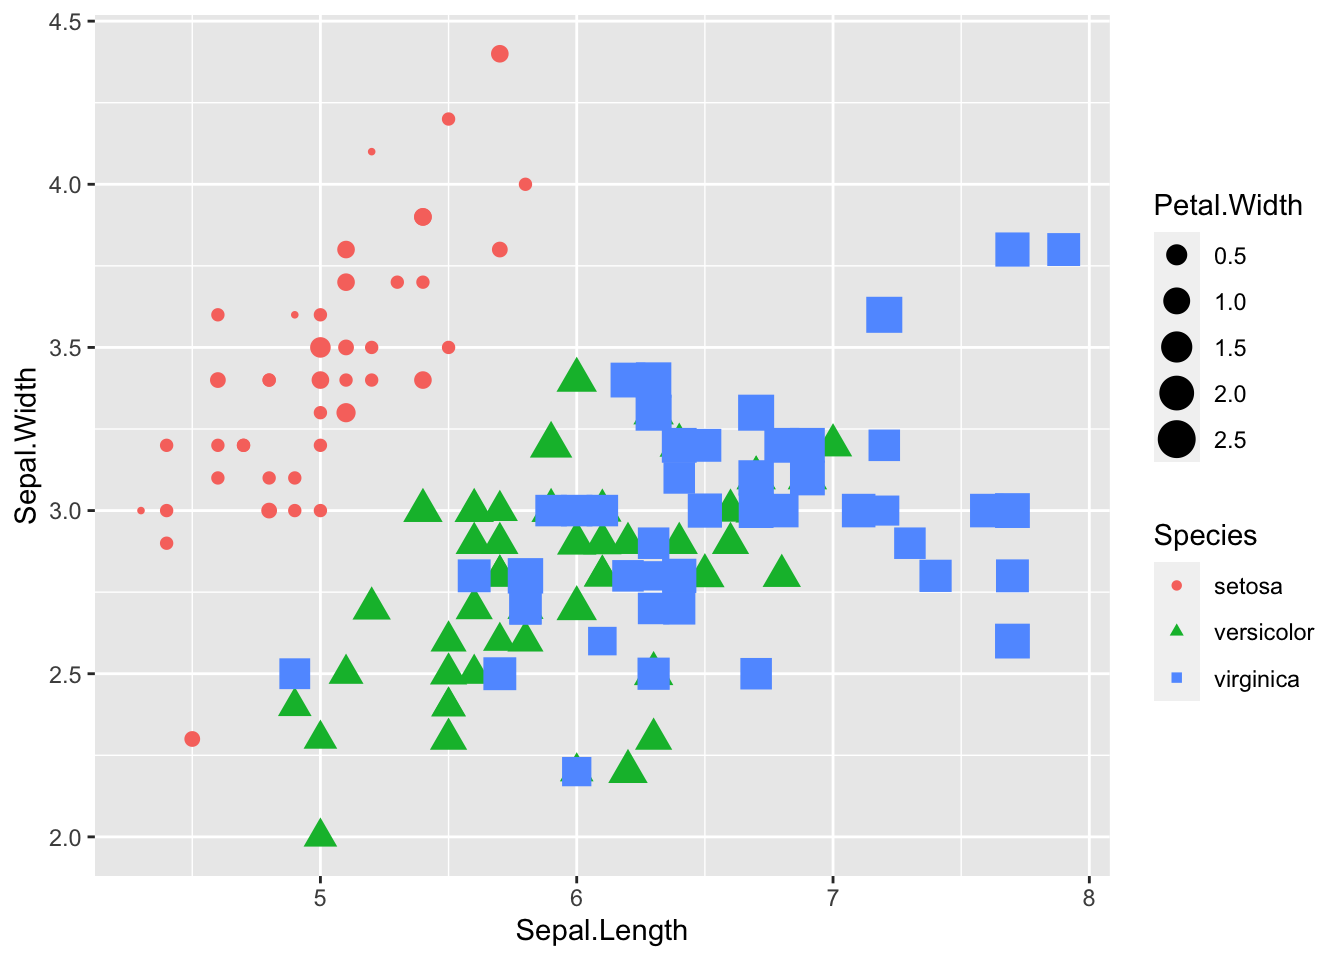
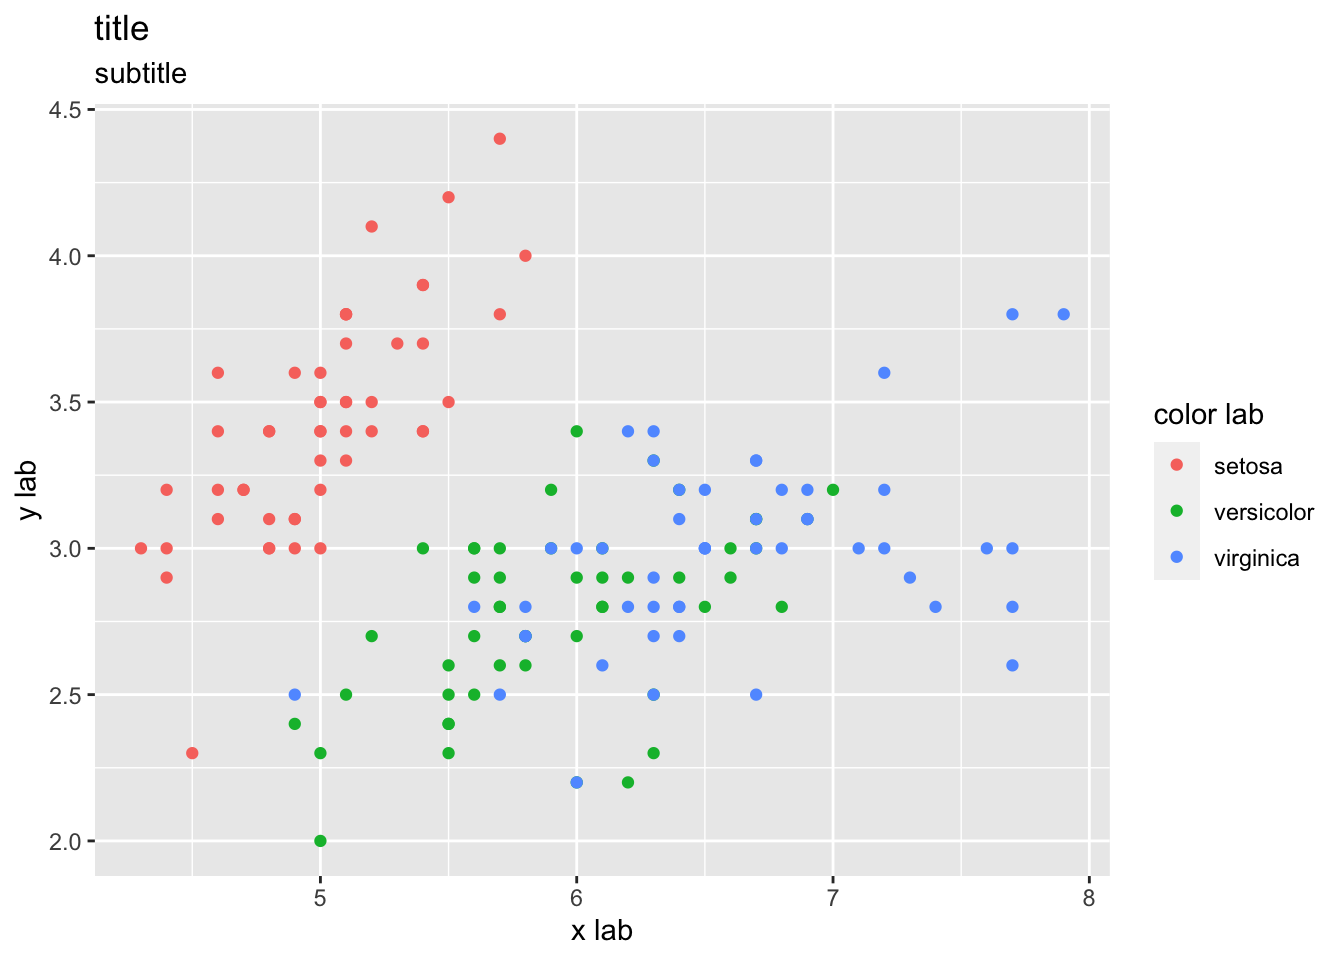
comit

diff --git a/docs/להפוך-את-הגרף-שלי-ליפהיפה.html b/docs/להפוך-את-הגרף-שלי-ליפהיפה.html
@@ -203,13 +203,40 @@ code span.wa { color: #60a0b0; font-weight: bold; font-style: italic; } /* Warni
             <section class="normal" id="section-">
 <div id="להפוך-את-הגרף-שלי-ליפהיפה" class="section level1" number="6">
 <h1><span class="header-section-number"> 6</span> להפוך את הגרף שלי ליפהיפה</h1>
+<p>ניתן לשמור אוביקט
+ggplot2
+בשם, ואז להוסיף לאוביקט השמור שכבות עיצוביות נוספת.
+זה מה שאדגים בפרק הזה. נתחיל בלשמור את הגרף שעבדנו עליו בפרקים הקודמים בשם</p>
+<div class="sourceCode" id="cb24"><pre class="sourceCode r"><code class="sourceCode r"><span id="cb24-1"><a href="להפוך-את-הגרף-שלי-ליפהיפה.html#cb24-1" aria-hidden="true" tabindex="-1"></a>my_plot <span class="ot">&lt;-</span> </span>
+<span id="cb24-2"><a href="להפוך-את-הגרף-שלי-ליפהיפה.html#cb24-2" aria-hidden="true" tabindex="-1"></a><span class="fu">ggplot</span>(iris) <span class="sc">+</span></span>
+<span id="cb24-3"><a href="להפוך-את-הגרף-שלי-ליפהיפה.html#cb24-3" aria-hidden="true" tabindex="-1"></a>  <span class="fu">aes</span>(<span class="at">x =</span> Sepal.Length, <span class="at">y =</span> Sepal.Width, <span class="at">color =</span> Species) <span class="sc">+</span></span>
+<span id="cb24-4"><a href="להפוך-את-הגרף-שלי-ליפהיפה.html#cb24-4" aria-hidden="true" tabindex="-1"></a>  <span class="fu">geom_point</span>()</span>
+<span id="cb24-5"><a href="להפוך-את-הגרף-שלי-ליפהיפה.html#cb24-5" aria-hidden="true" tabindex="-1"></a></span>
+<span id="cb24-6"><a href="להפוך-את-הגרף-שלי-ליפהיפה.html#cb24-6" aria-hidden="true" tabindex="-1"></a>my_plot</span></code></pre></div>
+<p><img src="bookdownproj_files/figure-html/unnamed-chunk-22-1.png" width="672" /></p>
 <div id="טקסט" class="section level2" number="6.1">
 <h2><span class="header-section-number">6.1</span> טקסט</h2>
-<p>בלה בלה בלה</p>
+<div class="sourceCode" id="cb25"><pre class="sourceCode r"><code class="sourceCode r"><span id="cb25-1"><a href="להפוך-את-הגרף-שלי-ליפהיפה.html#cb25-1" aria-hidden="true" tabindex="-1"></a>my_plot_2 <span class="ot">&lt;-</span> </span>
+<span id="cb25-2"><a href="להפוך-את-הגרף-שלי-ליפהיפה.html#cb25-2" aria-hidden="true" tabindex="-1"></a>my_plot <span class="sc">+</span></span>
+<span id="cb25-3"><a href="להפוך-את-הגרף-שלי-ליפהיפה.html#cb25-3" aria-hidden="true" tabindex="-1"></a>  <span class="fu">labs</span>(</span>
+<span id="cb25-4"><a href="להפוך-את-הגרף-שלי-ליפהיפה.html#cb25-4" aria-hidden="true" tabindex="-1"></a>    <span class="at">title =</span> <span class="st">&quot;title&quot;</span>,</span>
+<span id="cb25-5"><a href="להפוך-את-הגרף-שלי-ליפהיפה.html#cb25-5" aria-hidden="true" tabindex="-1"></a>    <span class="at">subtitle =</span> <span class="st">&quot;subtitle&quot;</span>,</span>
+<span id="cb25-6"><a href="להפוך-את-הגרף-שלי-ליפהיפה.html#cb25-6" aria-hidden="true" tabindex="-1"></a>    <span class="at">x =</span> <span class="st">&quot;x lab&quot;</span>,</span>
+<span id="cb25-7"><a href="להפוך-את-הגרף-שלי-ליפהיפה.html#cb25-7" aria-hidden="true" tabindex="-1"></a>    <span class="at">y =</span> <span class="st">&quot;y lab&quot;</span>,</span>
+<span id="cb25-8"><a href="להפוך-את-הגרף-שלי-ליפהיפה.html#cb25-8" aria-hidden="true" tabindex="-1"></a>    <span class="at">color =</span> <span class="st">&quot;color lab&quot;</span></span>
+<span id="cb25-9"><a href="להפוך-את-הגרף-שלי-ליפהיפה.html#cb25-9" aria-hidden="true" tabindex="-1"></a>  )</span>
+<span id="cb25-10"><a href="להפוך-את-הגרף-שלי-ליפהיפה.html#cb25-10" aria-hidden="true" tabindex="-1"></a></span>
+<span id="cb25-11"><a href="להפוך-את-הגרף-שלי-ליפהיפה.html#cb25-11" aria-hidden="true" tabindex="-1"></a>my_plot_2</span></code></pre></div>
+<p><img src="bookdownproj_files/figure-html/unnamed-chunk-23-1.png" width="672" /></p>
 </div>
 <div id="תמות-עיצוביות-מוכנות-מראש" class="section level2" number="6.2">
 <h2><span class="header-section-number">6.2</span> תמות עיצוביות מוכנות מראש</h2>
-<p>בלה בלה בלה</p>
+<div class="sourceCode" id="cb26"><pre class="sourceCode r"><code class="sourceCode r"><span id="cb26-1"><a href="להפוך-את-הגרף-שלי-ליפהיפה.html#cb26-1" aria-hidden="true" tabindex="-1"></a>my_plot_2 <span class="sc">+</span></span>
+<span id="cb26-2"><a href="להפוך-את-הגרף-שלי-ליפהיפה.html#cb26-2" aria-hidden="true" tabindex="-1"></a>  <span class="fu">theme_classic</span>()</span></code></pre></div>
+<p><img src="bookdownproj_files/figure-html/unnamed-chunk-24-1.png" width="672" /></p>
+<div class="sourceCode" id="cb27"><pre class="sourceCode r"><code class="sourceCode r"><span id="cb27-1"><a href="להפוך-את-הגרף-שלי-ליפהיפה.html#cb27-1" aria-hidden="true" tabindex="-1"></a>my_plot_2 <span class="sc">+</span></span>
+<span id="cb27-2"><a href="להפוך-את-הגרף-שלי-ליפהיפה.html#cb27-2" aria-hidden="true" tabindex="-1"></a>  <span class="fu">theme_dark</span>()</span></code></pre></div>
+<p><img src="bookdownproj_files/figure-html/unnamed-chunk-25-1.png" width="672" /></p>
 </div>
 <div id="יצירת-תמות-בעצמנו" class="section level2" number="6.3">
 <h2><span class="header-section-number">6.3</span> יצירת תמות בעצמנו</h2>
@@ -217,7 +244,10 @@ code span.wa { color: #60a0b0; font-weight: bold; font-style: italic; } /* Warni
 </div>
 <div id="צבעים" class="section level2" number="6.4">
 <h2><span class="header-section-number">6.4</span> צבעים</h2>
-<p>בלה בלה בלה</p>
+<div class="sourceCode" id="cb28"><pre class="sourceCode r"><code class="sourceCode r"><span id="cb28-1"><a href="להפוך-את-הגרף-שלי-ליפהיפה.html#cb28-1" aria-hidden="true" tabindex="-1"></a>my_plot_2 <span class="sc">+</span></span>
+<span id="cb28-2"><a href="להפוך-את-הגרף-שלי-ליפהיפה.html#cb28-2" aria-hidden="true" tabindex="-1"></a>  <span class="fu">theme_classic</span>() <span class="sc">+</span></span>
+<span id="cb28-3"><a href="להפוך-את-הגרף-שלי-ליפהיפה.html#cb28-3" aria-hidden="true" tabindex="-1"></a>  <span class="fu">scale_color_brewer</span>(<span class="at">palette =</span> <span class="dv">2</span>)</span></code></pre></div>
+<p><img src="bookdownproj_files/figure-html/unnamed-chunk-26-1.png" width="672" /></p>
 </div>
 <div id="עיצוב-הצירים" class="section level2" number="6.5">
 <h2><span class="header-section-number">6.5</span> עיצוב הצירים</h2>

diff --git a/docs/index.html b/docs/index.html
@@ -230,7 +230,7 @@ R,
 <a href="mailto:ophir.betser@gmail.com" class="email">ophir.betser@gmail.com</a></p>
 <hr />
 <p>עידכון אחרון<br />
-2021-10-27 00:57:01</p>
+2021-10-27 01:07:37</p>
 <div class="sourceCode" id="cb1"><pre class="sourceCode r"><code class="sourceCode r"><span id="cb1-1"><a href="index.html#cb1-1" aria-hidden="true" tabindex="-1"></a>pacman<span class="sc">::</span><span class="fu">p_load</span>(</span>
 <span id="cb1-2"><a href="index.html#cb1-2" aria-hidden="true" tabindex="-1"></a>  ggplot2</span>
 <span id="cb1-3"><a href="index.html#cb1-3" aria-hidden="true" tabindex="-1"></a>)</span></code></pre></div>
